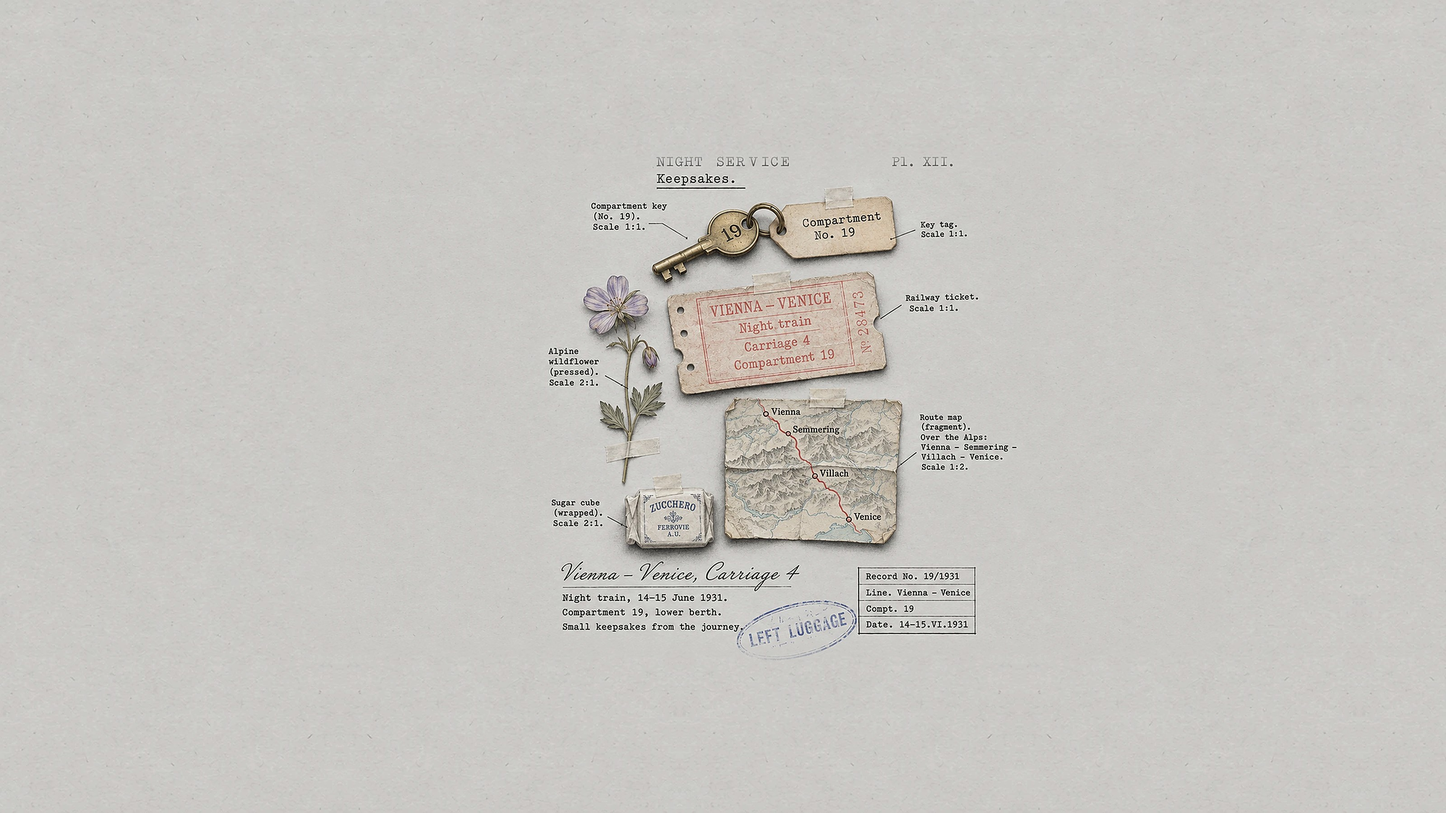
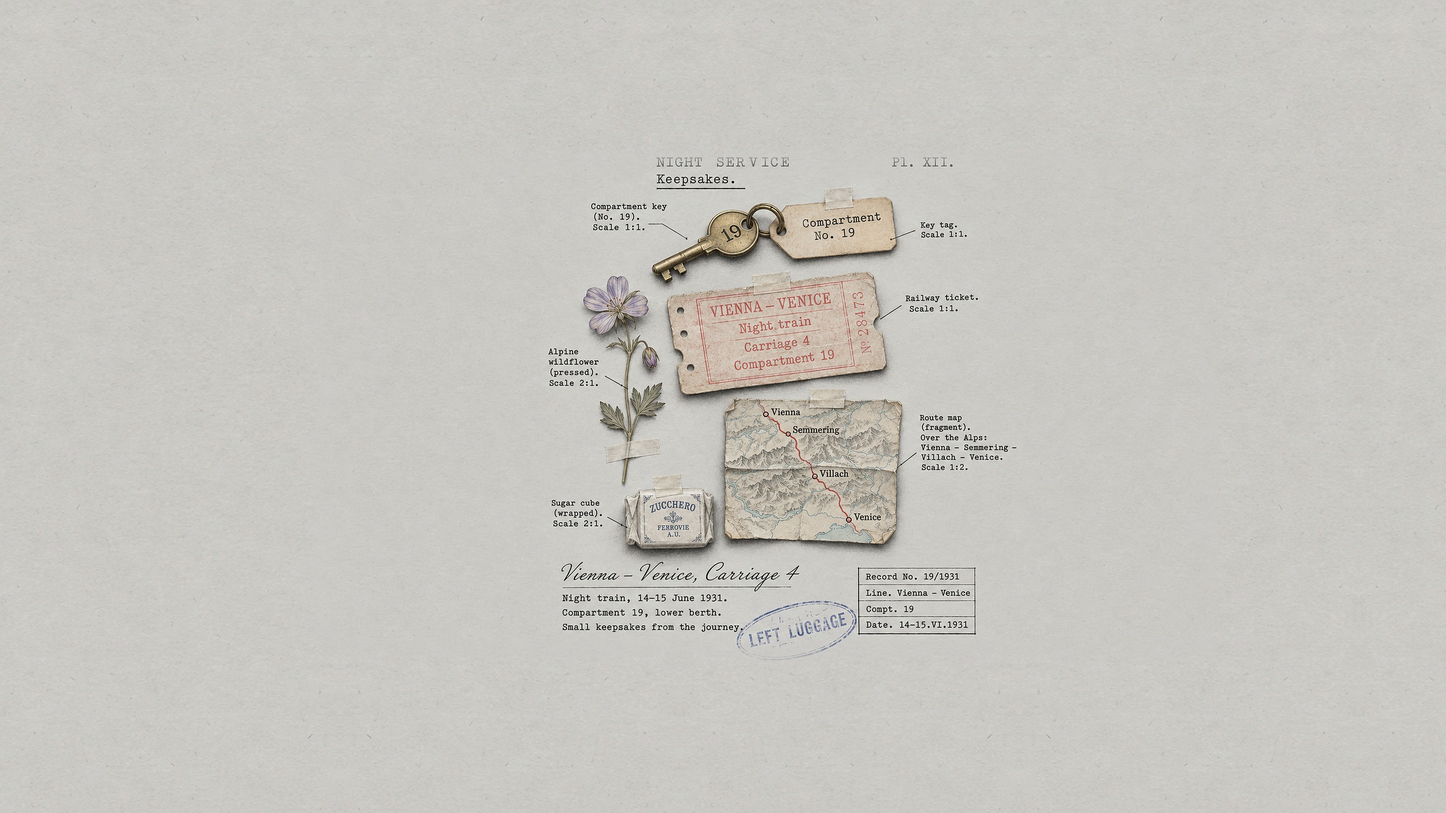
Night Service sheet from the 4K artwork
The uploaded 3840 x 2160 plate (kept as webp; the png taken out of the
tree so updates stay small), laid as before between the desk terminal and
the cards; the fitting now works at any source size.

Claude-Session: https://claude.ai/code/session_01Gt7tu4gfoEos1TAjQ1a4QF

diff --git a/tools/import_wallpaper.py b/tools/import_wallpaper.py
@@ -58,7 +58,7 @@ OTHER_PLATES = {
         "quieten": False,
         # laid smaller, in the open paper between the desk terminal (left)
         # and the record cards (right); its own blank paper fills round it
-        "fit": {"scale": 0.64, "cx": 0.53, "cy": 0.5, "paper": [0, 0, 470, 1125]},
+        "fit": {"scale": 0.64, "cx": 0.53, "cy": 0.5, "paper": [0, 0, 0.235, 1]},
         "meta": {"number": "0019", "region": "NIGHT SERVICE", "latin": "Vienna – Venice",
                  "authority": "Night train, 14–15 June 1931.", "family": "Carriage 4",
                  "common": "Compartment 19, lower berth."},
@@ -148,7 +148,7 @@ def refit(src, fit):
     """The art laid smaller at (cx, cy) of a sheet of its own paper: a blank
     strip of it (fit["paper"]) mirrored across, the art feathered into it."""
     W, H = src.size
-    px0, py0, px1, py1 = fit["paper"]
+    px0, py0, px1, py1 = (round(v * (W if i % 2 == 0 else H)) for i, v in enumerate(fit["paper"]))
     strip = src.crop((px0, py0, px1, py1))
     paper = Image.new("RGB", (W, H))
     x, flip = 0, False
@@ -160,7 +160,7 @@ def refit(src, fit):
     k = fit["scale"]
     art = src.resize((round(W * k), round(H * k)), Image.LANCZOS)
     mask = Image.new("L", art.size, 0)
-    m = 24
+    m = round(24 * W / 2000)
     ImageDraw.Draw(mask).rectangle([m, m, art.width - m, art.height - m], fill=255)
     mask = mask.filter(ImageFilter.GaussianBlur(m / 2))
     paper.paste(art, (round(W * fit["cx"] - art.width / 2), round(H * fit["cy"] - art.height / 2)), mask)
